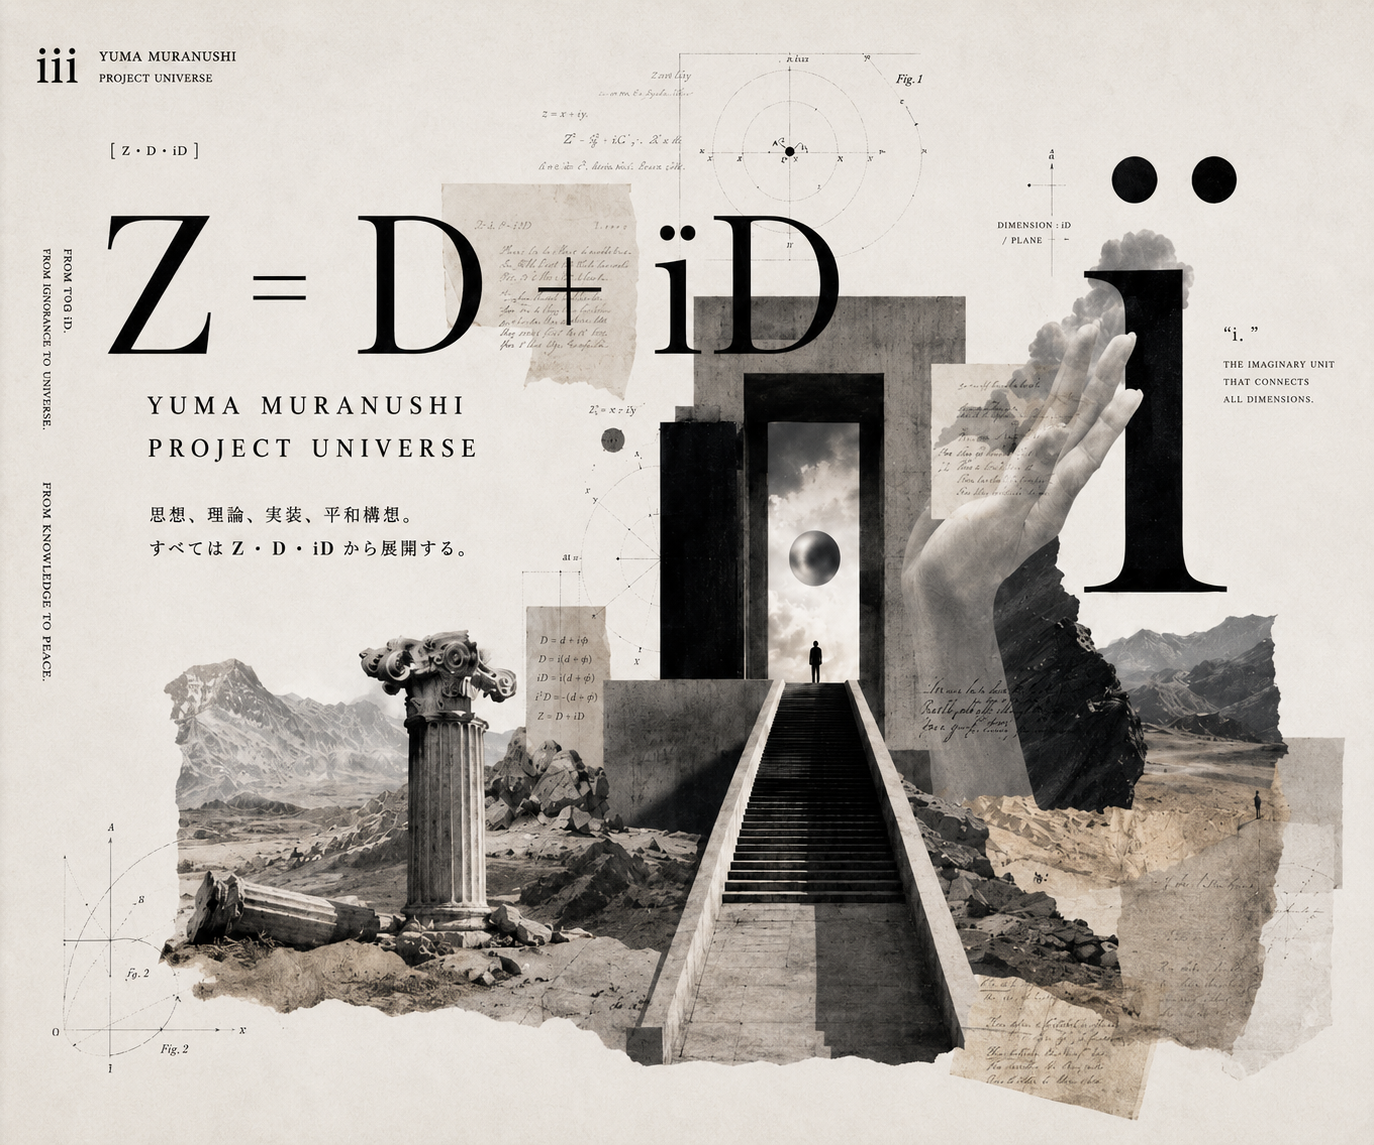
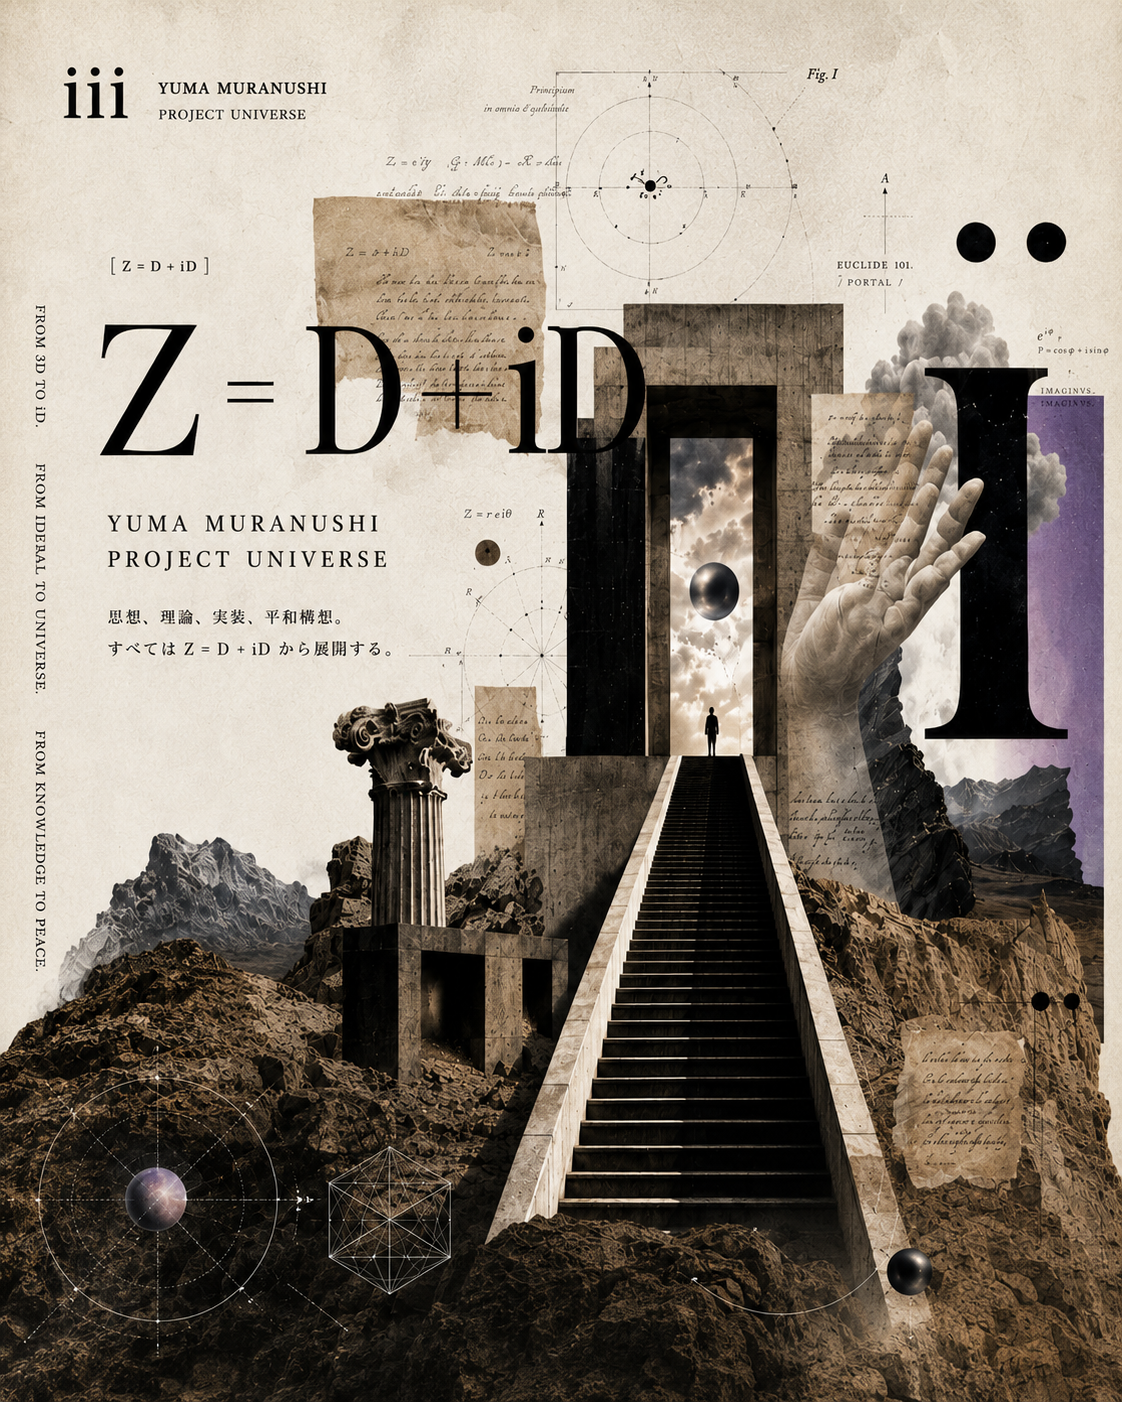
v3: ヒーロー画像をPC/スマホとも新版に差替＋スマホでも6カラムを画像上に重ねる
- mv-pc.png/mv-tablet.png=新PC版(1672x941横長)、mv-sp.png=新スマホ版(1122x1402縦長)に差替
- タブレット(≤1023)：旧「画像下に通常配置」をやめPC同様に重ねる(flex:0 0 13.5%)
- スマホ(≤600)：grid repeat(6,1fr)で6カラムを画像上に横一列で重ねる
  画像高さを低く(clamp52-104px)・副題は幅確保のため非表示

diff --git a/v3/css/style.css b/v3/css/style.css
@@ -230,11 +230,8 @@ img{max-width:100%;display:block}
   .card:nth-child(3){border-right:0}
   .card:nth-child(-n+3){border-bottom:1px solid var(--line)}
   .sec-head h2{font-size:24px}
-  /* ヒーロー6カラムは画像の下に通常配置（重ねない） */
-  .hero{display:flex;flex-direction:column}
-  .hero-nav{position:static;grid-template-columns:repeat(3,1fr);background:var(--cream)}
-  .hero-nav a:nth-child(3){border-right:0}
-  .hero-nav a:nth-child(-n+3){border-bottom:1px solid var(--line)}
+  /* ヒーロー6カラムはタブレットでも画像の上に重ねる（PCと同様） */
+  .hero-nav a{flex:0 0 13.5%}
   .enter-btn{bottom:auto;top:5%}
 }
 @media (max-width:600px){
@@ -243,9 +240,15 @@ img{max-width:100%;display:block}
   .mid-text{position:static;transform:none;max-width:100%;background:var(--cream);border-top:1px solid var(--line)}
   .mid-text h3{font-size:22px}
   .mid-band{display:flex;flex-direction:column;flex:0 0 auto}  /* flex-basis:0+overflow:hiddenでmin-height:autoが効かず高さ0に潰れる→コンテンツ基準に戻す */
-  .hero-nav{grid-template-columns:repeat(2,1fr)}
-  .hero-nav a:nth-child(3){border-right:1px solid var(--line)}
-  .hero-nav a:nth-child(2n){border-right:0}
+  /* スマホもヒーロー画像の上に6カラムを重ねる（縦長MVの下部に乗せる） */
+  .hero-nav{display:grid;grid-template-columns:repeat(6,1fr);
+    gap:1.2%;padding:0 1.5% 6px;align-items:end}        /* gridで6等分＝確実に6枚収まる */
+  .hero-nav a{flex:initial;width:auto;min-width:0}
+  .hero-nav img{height:clamp(52px,15vw,104px)}          /* モバイルは画像を低く */
+  .hero-nav .hn-label{padding:4px 2px 6px;font-size:8px;letter-spacing:.2px}
+  .hero-nav .hn-label b{font-size:7px;margin-bottom:1px}
+  .hero-nav .hn-label small{display:none}             /* 副題は幅不足のため非表示 */
+  .enter-btn{bottom:auto;top:4%;width:46%}
   /* バンド：画像の下にテキストを通常配置 */
   .band-text,.band-list{position:static;transform:none;max-width:100%;width:100%;text-align:left}
   .band-text{padding:16px 18px;background:none!important}